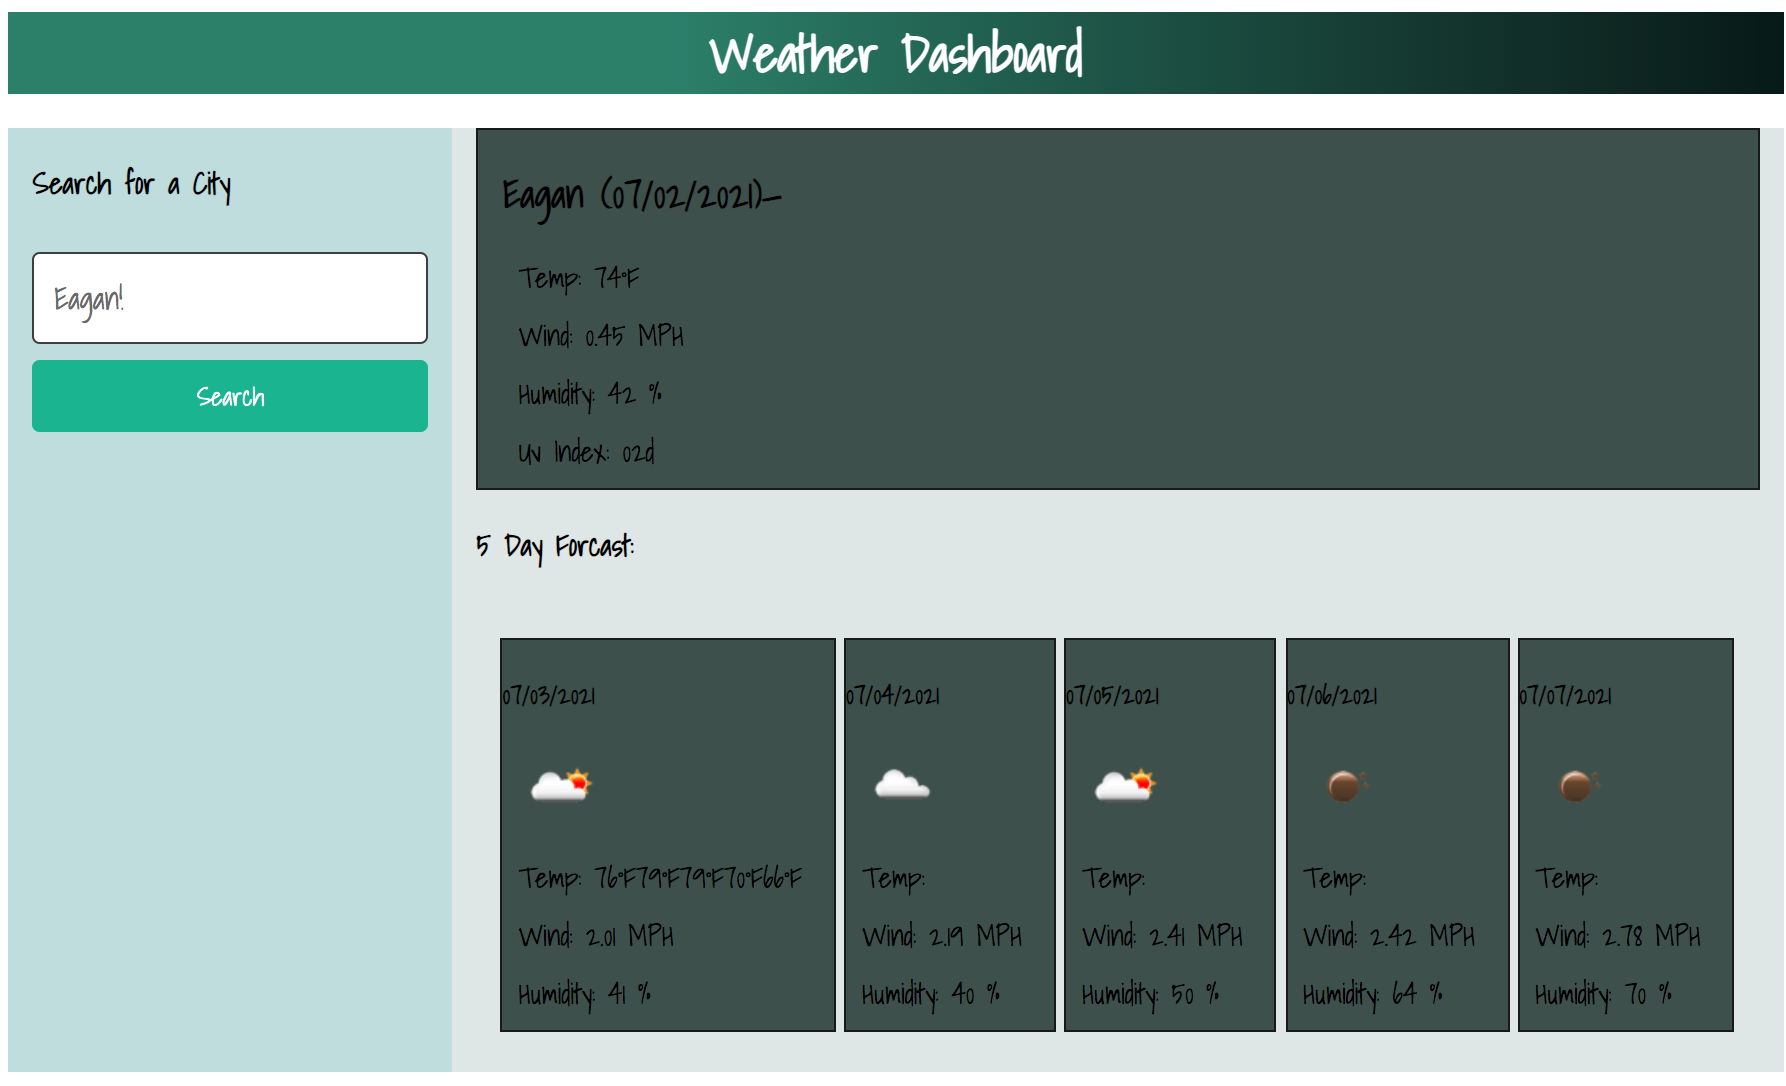
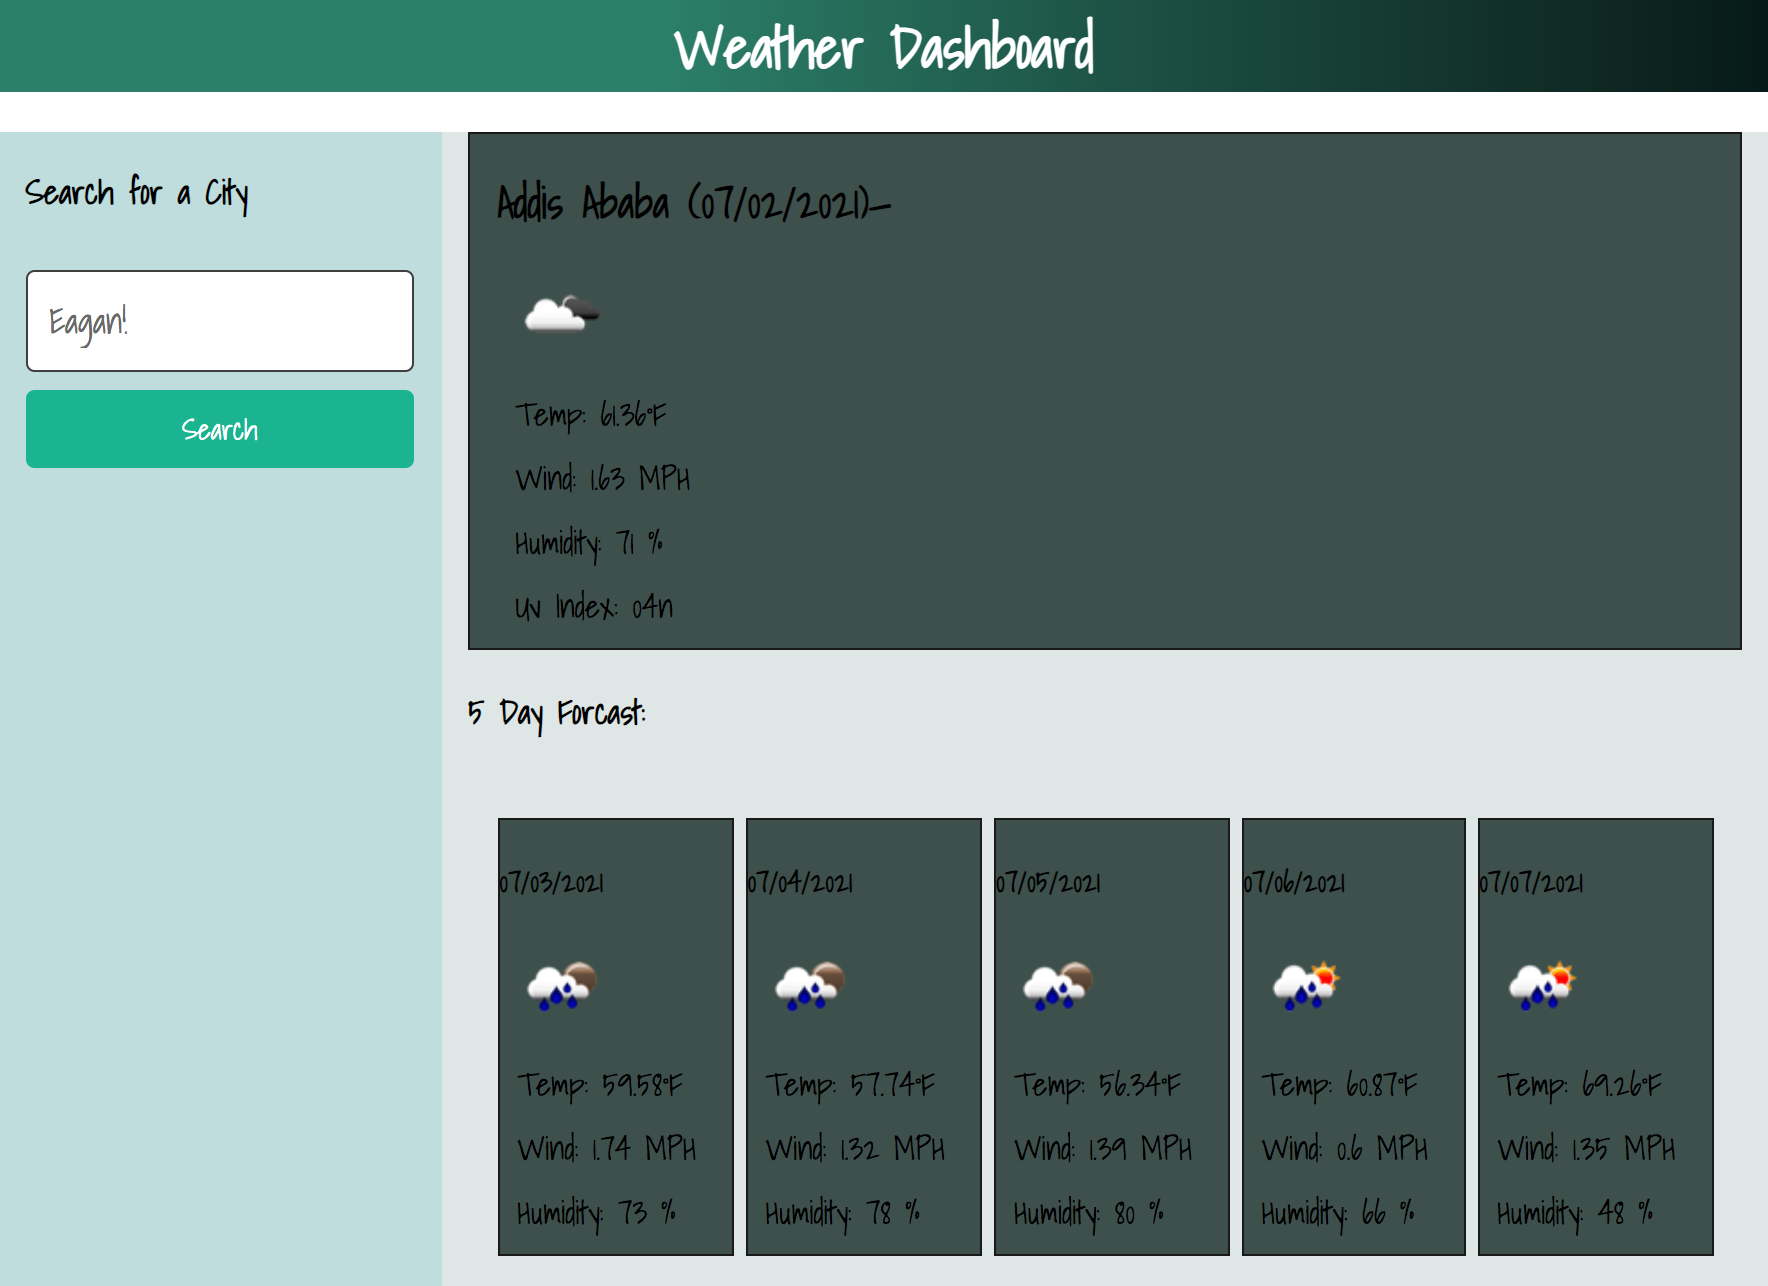
fixing UV index issue

Changed region(s): [[0.0, 0.0, 1.0, 1.0]]

diff --git a/assets/js/script.js b/assets/js/script.js
@@ -6,7 +6,13 @@ var apiUrlCitySearch = "https://api.openweathermap.org/data/2.5/weather?q=" + ci
 var apiFutureForcast = "https://api.openweathermap.org/data/2.5/forecast?q=" + city + "&cnt=" + numDays + "&appid=" + apiKey
 
 var current = moment().format("MM/DD/YYYY");
- 
+
+//var lat = data.coord.lat
+//var lon = data.coord.lon
+//var uvURL= "https://api.openweathermap.org/data/2.5/uvi?appid=" + apiKey + "&lat=" + lat + "&lon=" + lon
+
+
+
 
 var dayOne = moment().add(1, 'days').format("MM/DD/YYYY");
 var dayTwo = moment().add(2, 'days').format("MM/DD/YYYY");
@@ -14,15 +20,16 @@ var dayThree = moment().add(3, 'days').format("MM/DD/YYYY");
 var dayFour = moment().add(4, 'days').format("MM/DD/YYYY");
 var dayFive = moment().add(5, 'days').format("MM/DD/YYYY");
 
-
 function getCityName() {
+  
   fetch(apiUrlCitySearch)
+    
     .then(function (response) {
         return response.json()
     })
     .then(function (data) {
-      //console.log(data)
-
+      console.log(data)
+      
       $("h2").append (data.name + ' (' ); //city Name
       $("h2").append (current + ')' + '&mdash;'); //current date
 
@@ -38,9 +45,38 @@ function getCityName() {
       $("#wind").append(data.wind.speed + " MPH") // Wind spead
       $("#humidity").append(data.main.humidity + ' &#37;' )//current date humidity
       
-      $("#uvIndex").append(data.weather[0].icon) //current date UV Index
+
+    // AJAX for UV Index:
+      var lat = data.coord.lat;
+      var lon = data.coord.lon;
+      $.ajax({
+        url: "https://api.openweathermap.org/data/2.5/uvi?appid=" + apiKey + "&lat=" + lat + "&lon=" + lon,
+        method: "GET"
+      }).then(function (data) {
+        console.log(data);
+        console.log(data.value);
+        //$(".uvIndex").text("UV Index:" + response.value);
+        $("#uvIndex").append(data.value) //current date UV Index
+        /*
+        if (data.value <= 4){
+            //favourable 
+        }
+
+        else if((data.value > 4 ) && (data.value < 8 )){
+
+          //moderate
+        }
+
+        else{ (data.value >= 8){
+          //sevier
+
+        }*/
+
+
+        
+      });
   })
-  
+   
 }
 
 function getFutureWeather() {
@@ -51,14 +87,12 @@ function getFutureWeather() {
     .then(function (data) {
 
       //console.log(data)
-      
       //Future 5 Days 
       $("#dayOne").append(data.list[0].dt_txt).text (dayOne)
       $("#dayTwo").append(data.list[1].dt_txt).text (dayTwo)
       $("#dayThree").append(data.list[2].dt_txt).text (dayThree)
       $("#dayFour").append(data.list[3].dt_txt).text (dayFour)
       $("#dayFive").append(data.list[4].dt_txt).text (dayFive)
-
 
       //Future 5 Days Icon
       iconOne = data.list[0].weather[0].icon;
@@ -81,7 +115,6 @@ function getFutureWeather() {
       var iconUrl = "http://openweathermap.org/img/w/" + iconFive + ".png";
       $("#dayFiveIcon").html("<img src='" + iconUrl  + "'>");
 
-      
       //Temperature forcast for the next 5 days
       $("#dayOneTemp").append(((data.list[0].main.temp-273.5)*1.8+32).toFixed(2) + '&deg;' + "F")
       $("#dayTwoTemp").append(((data.list[1].main.temp-273.5)*1.8+32).toFixed(2) + '&deg;' + "F")
@@ -103,14 +136,12 @@ function getFutureWeather() {
       $("#dayFourHumidity").append(data.list[3].main.humidity + ' &#37;' )
       $("#dayFiveHumidity").append(data.list[4].main.humidity + ' &#37;' )
   })
-  
 }
 
 function storeInput() {
   city = $("#search-input").val();
   localStorage.setItem("search", city);
   console.log(city);
-
 }
 
 $("#searchBtn").on("click", storeInput)

diff --git a/index.html b/index.html
@@ -102,10 +102,13 @@
 
   </div>
 
-  <script src="https://code.jquery.com/jquery-3.5.1.slim.min.js" integrity="sha384-DfXdz2htPH0lsSSs5nCTpuj/zy4C+OGpamoFVy38MVBnE+IbbVYUew+OrCXaRkfj" crossorigin="anonymous"></script>
+  <script src="https://code.jquery.com/jquery-3.2.1.min.js"></script> 
+  <!--<script src="https://code.jquery.com/jquery-3.5.1.slim.min.js" integrity="sha384-DfXdz2htPH0lsSSs5nCTpuj/zy4C+OGpamoFVy38MVBnE+IbbVYUew+OrCXaRkfj" crossorigin="anonymous"></script>
+  -->
   <script src="https://cdn.jsdelivr.net/npm/popper.js@1.16.1/dist/umd/popper.min.js" integrity="sha384-9/reFTGAW83EW2RDu2S0VKaIzap3H66lZH81PoYlFhbGU+6BZp6G7niu735Sk7lN" crossorigin="anonymous"></script>
   <script src="https://cdn.jsdelivr.net/npm/bootstrap@4.6.0/dist/js/bootstrap.min.js" integrity="sha384-+YQ4JLhjyBLPDQt//I+STsc9iw4uQqACwlvpslubQzn4u2UU2UFM80nGisd026JF" crossorigin="anonymous"></script>
   <script src="https://cdnjs.cloudflare.com/ajax/libs/moment.js/2.24.0/moment.min.js"></script>
+  
 
   <script src="./assets/js/script.js"></script>
 </body>
